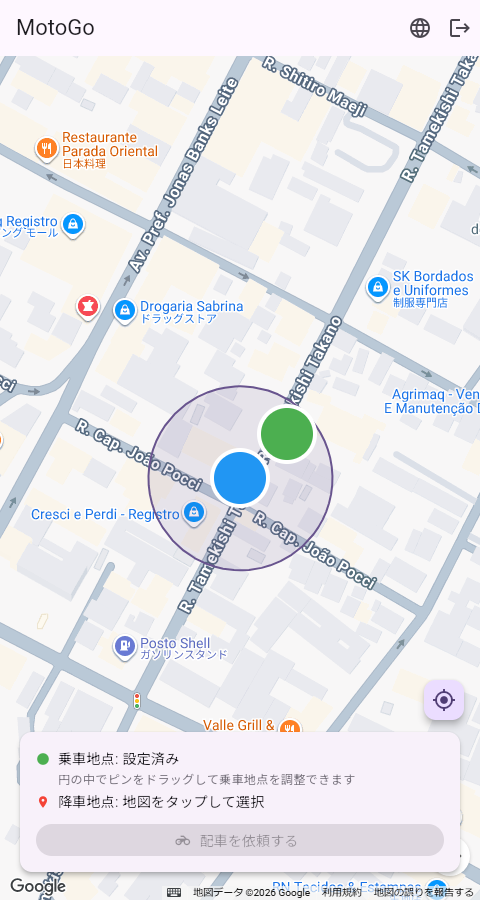
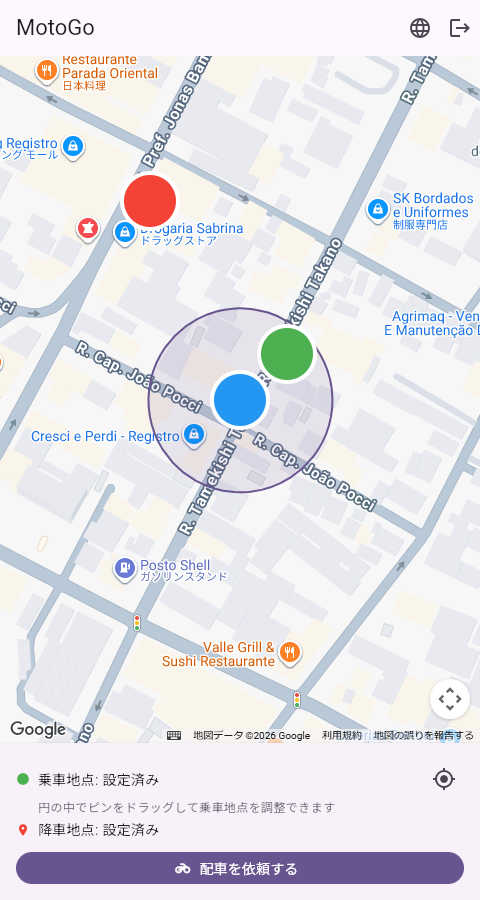
Move map overlay controls to a non-overlapping layout to stop tap-through
Tried pointer_interceptor (Google's documented fix for taps on a Flutter
widget over GoogleMap's web HtmlElementView also reaching the map
underneath) first, wrapping every overlay: AppBar actions, the "back to
pickup" FAB, the bottom status/action card, and the info banners.
Verified by direct testing that this did NOT reliably work — the FAB's
tap still registered as a dropoff-point tap on the map beneath it despite
the wrap. This matches a known Flutter-side instability specifically in
the GoogleMap + Stack + PointerInterceptor combination
(flutter/flutter#118159).

Reverted pointer_interceptor entirely (removed the dependency and all
usages) in favor of the approach actually confirmed to work: don't
overlap interactive controls with GoogleMap at all.

- body is now a Column: Expanded(Stack(GoogleMap + the two informational
  _InfoBanner overlays)) followed by a plain (non-Positioned) status/
  action card below it, sized on its own rather than floating over the
  map.
- The "back to pickup" FAB moved into that card (as an IconButton next to
  the pickup status line) instead of a Positioned FAB over the map.
- AppBar actions (language switcher, logout) were never actually
  overlapping the map (separate Scaffold slot) — confirmed clean by
  testing, left unwrapped.
- The location banners are the one remaining overlap, left as-is since
  they're read-only (a stray tap reaching the map while reading one is a
  minor side effect, not a broken control).
[…]

diff --git a/lib/features/passenger/home/passenger_home_screen.dart b/lib/features/passenger/home/passenger_home_screen.dart
@@ -406,146 +406,189 @@ class _PassengerHomeScreenState extends ConsumerState<PassengerHomeScreen> {
           ),
         ],
       ),
-      body: Stack(
+      // Interactive controls live in a separate, non-overlapping section
+      // below the map (see the Card at the bottom of this Column) rather
+      // than floating on top of it in a Stack. On web, GoogleMap renders as
+      // a real HTML element (HtmlElementView); a widget merely stacked
+      // visually on top of it can still leave taps reaching that element
+      // underneath at the same time (confirmed here: the old "back to
+      // pickup" FAB was also registering as a dropoff tap on the map below
+      // it). The documented fix for this (wrapping overlays in a
+      // PointerInterceptor) turned out to be unreliable in combination with
+      // GoogleMap specifically — flutter/flutter#118159 confirms known
+      // instability in exactly this combination (GoogleMap + Stack +
+      // PointerInterceptor) — so instead of fighting that, interactive
+      // controls simply don't overlap the map at all. The two _InfoBanner
+      // overlays are the one remaining exception (see their own note) since
+      // they aren't interactive.
+      // 操作系のコントロールは、地図の上にStackで重ねるのではなく、地図の下の
+      // 別セクション（このColumn末尾のCard）に分離して置く。Web版では
+      // GoogleMapは実際のHTML要素（HtmlElementView）として描画されるため、
+      // 視覚的に重ねるだけのウィジェットでは、タップが同時に下のHTML要素にも
+      // 届いてしまうことがある（この環境で確認済み: 旧「乗車地点に戻る」FABを
+      // タップすると、同時に地図側で降車地点タップとしても扱われていた）。
+      // これに対する公式な対処法（オーバーレイをPointerInterceptorでラップ
+      // する）は、GoogleMapとの組み合わせでは不安定であることが判明した —
+      // flutter/flutter#118159が、まさにこの組み合わせ（GoogleMap + Stack +
+      // PointerInterceptor）に既知の不安定さがあることを裏付けている —
+      // そのため、これと戦うのではなく、操作系のコントロールを地図と一切
+      // 重ねない設計にした。唯一の例外は2つの_InfoBannerオーバーレイ
+      // （操作対象ではないため — 詳細は個別の注記参照）。
+      body: Column(
         children: [
-          GoogleMap(
-            initialCameraPosition: const CameraPosition(
-              target: _registroCityCenter,
-              zoom: 14,
-            ),
-            onMapCreated: (controller) {
-              _mapController = controller;
-              // Covers the case where the device's GPS fix resolves before
-              // the map finishes initializing (observed in headless/mocked
-              // geolocation testing, but possible on a slow device too) —
-              // without this, _zoomToPickup's earlier call from
-              // _initPickupFromDeviceLocation silently no-ops on a
-              // still-null controller and the map is left at the initial
-              // city-wide view.
-              // GPS取得地点の解決が地図の初期化完了より先に終わるケースに
-              // 対応する（ヘッドレス/モック位置情報でのテストで確認済みだが、
-              // 低速な端末でも起こりうる）— これが無いと、
-              // _initPickupFromDeviceLocationからの_zoomToPickup呼び出しが
-              // まだnullなコントローラに対して無言でno-opになり、地図が
-              // 初期の街全体ビューのまま残ってしまう。
-              _zoomToPickup();
-            },
-            onTap: _onMapTap,
-            markers: markers,
-            // Visualizes _pickupRadiusMeters around the device's actual GPS
-            // fix, so the drag constraint in _clampToPickupRadius is
-            // something the user can see, not just silently enforced.
-            // _pickupRadiusMetersを端末の実際のGPS取得地点の周りに可視化する。
-            // _clampToPickupRadiusでのドラッグ制約を、暗黙に強制するのではなく
-            // ユーザーが目で見て分かるようにする。
-            circles: _deviceLocation == null
-                ? const {}
-                : {
-                    Circle(
-                      circleId: const CircleId('pickup_radius'),
-                      center: _deviceLocation!,
-                      radius: _pickupRadiusMeters,
-                      strokeWidth: 2,
-                      strokeColor: Theme.of(context).colorScheme.primary,
-                      fillColor: Theme.of(
-                        context,
-                      ).colorScheme.primary.withValues(alpha: 0.12),
-                    ),
+          Expanded(
+            child: Stack(
+              children: [
+                GoogleMap(
+                  initialCameraPosition: const CameraPosition(
+                    target: _registroCityCenter,
+                    zoom: 14,
+                  ),
+                  onMapCreated: (controller) {
+                    _mapController = controller;
+                    // Covers the case where the device's GPS fix resolves
+                    // before the map finishes initializing (observed in
+                    // headless/mocked geolocation testing, but possible on
+                    // a slow device too) — without this, _zoomToPickup's
+                    // earlier call from _initPickupFromDeviceLocation
+                    // silently no-ops on a still-null controller and the
+                    // map is left at the initial city-wide view.
+                    // GPS取得地点の解決が地図の初期化完了より先に終わる
+                    // ケースに対応する（ヘッドレス/モック位置情報での
+                    // テストで確認済みだが、低速な端末でも起こりうる）—
+                    // これが無いと、_initPickupFromDeviceLocationからの
+                    // _zoomToPickup呼び出しがまだnullなコントローラに対して
+                    // 無言でno-opになり、地図が初期の街全体ビューのまま
+                    // 残ってしまう。
+                    _zoomToPickup();
                   },
-            // Note: intentionally NOT using GoogleMap's built-in
-            // myLocationEnabled ("blue dot") flag — verified in this
-            // environment that google_maps_flutter_web doesn't actually
-            // render it (the underlying Google Maps JavaScript API has no
-            // native "my location" primitive; that's an app-level feature
-            // on Android/iOS/Google's own web maps, not something the
-            // embeddable JS API provides). The device_location marker
-            // below (in `markers`) is our own reliable, cross-platform
-            // equivalent.
-            // 注: あえてGoogleMap組み込みのmyLocationEnabled（「青い点」）
-            // フラグは使っていない — この環境で検証した結果、
-            // google_maps_flutter_webでは実際には描画されないことを確認
-            // 済み（Google Maps JavaScript API自体に「現在地」を示す
-            // ネイティブの仕組みが無いため。それはAndroid/iOS/Google自身の
-            // Web地図が持つアプリレベルの機能であり、組み込み用JS APIが
-            // 提供するものではない）。下の`markers`にある
-            // device_locationマーカーが、これに代わる自前実装の
-            // クロスプラットフォームで確実に動く同等機能。
-            myLocationButtonEnabled: false,
-            zoomControlsEnabled: false,
-          ),
-          if (_isLocatingDevice)
-            _InfoBanner(message: l10n.passengerGettingCurrentLocation),
-          if (_locationError != null)
-            _InfoBanner(
-              message:
-                  '${_locationError!.localizedMessage(l10n)}\n'
-                  '${l10n.passengerTapMapToPickPickupHint}',
-              isError: true,
+                  onTap: _onMapTap,
+                  markers: markers,
+                  // Visualizes _pickupRadiusMeters around the device's
+                  // actual GPS fix, so the drag constraint in
+                  // _clampToPickupRadius is something the user can see, not
+                  // just silently enforced.
+                  // _pickupRadiusMetersを端末の実際のGPS取得地点の周りに
+                  // 可視化する。_clampToPickupRadiusでのドラッグ制約を、
+                  // 暗黙に強制するのではなくユーザーが目で見て分かるように
+                  // する。
+                  circles: _deviceLocation == null
+                      ? const {}
+                      : {
+                          Circle(
+                            circleId: const CircleId('pickup_radius'),
+                            center: _deviceLocation!,
+                            radius: _pickupRadiusMeters,
+                            strokeWidth: 2,
+                            strokeColor: Theme.of(context).colorScheme.primary,
+                            fillColor: Theme.of(
+                              context,
+                            ).colorScheme.primary.withValues(alpha: 0.12),
+                          ),
+                        },
+                  // Note: intentionally NOT using GoogleMap's built-in
+                  // myLocationEnabled ("blue dot") flag — verified in this
+                  // environment that google_maps_flutter_web doesn't
+                  // actually render it (the underlying Google Maps
+                  // JavaScript API has no native "my location" primitive;
+                  // that's an app-level feature on Android/iOS/Google's own
+                  // web maps, not something the embeddable JS API
+                  // provides). The device_location marker below (in
+                  // `markers`) is our own reliable, cross-platform
+                  // equivalent.
+                  // 注: あえてGoogleMap組み込みのmyLocationEnabled
+                  // （「青い点」）フラグは使っていない — この環境で検証した
+                  // 結果、google_maps_flutter_webでは実際には描画されない
+                  // ことを確認済み（Google Maps JavaScript API自体に
+                  // 「現在地」を示すネイティブの仕組みが無いため。それは
+                  // Android/iOS/Google自身のWeb地図が持つアプリレベルの
+                  // 機能であり、組み込み用JS APIが提供するものではない）。
+                  // 下の`markers`にあるdevice_locationマーカーが、これに
+                  // 代わる自前実装のクロスプラットフォームで確実に動く
+                  // 同等機能。
+                  myLocationButtonEnabled: false,
+                  zoomControlsEnabled: false,
+                ),
+                if (_isLocatingDevice)
+                  _InfoBanner(message: l10n.passengerGettingCurrentLocation),
+                if (_locationError != null)
+                  _InfoBanner(
+                    message:
+                        '${_locationError!.localizedMessage(l10n)}\n'
+                        '${l10n.passengerTapMapToPickPickupHint}',
+                    isError: true,
+                  ),
+              ],
             ),
-          Positioned(
-            right: 16,
-            bottom: 180,
-            child: FloatingActionButton.small(
-              onPressed: _pickupLocation == null
-                  ? null
-                  : () => _mapController?.animateCamera(
-                      CameraUpdate.newLatLng(_pickupLocation!),
-                    ),
-              tooltip: l10n.passengerBackToPickupTooltip,
-              child: const Icon(Icons.my_location),
-            ),
           ),
-          Positioned(
-            left: 16,
-            right: 16,
-            bottom: 24,
-            child: Card(
-              elevation: 4,
-              child: Padding(
-                padding: const EdgeInsets.all(16),
-                child: Column(
-                  mainAxisSize: MainAxisSize.min,
-                  crossAxisAlignment: CrossAxisAlignment.stretch,
-                  children: [
-                    _RideStatusLine(
-                      icon: Icons.circle,
-                      color: Colors.green,
-                      label: _pickupLocation == null
-                          ? l10n.passengerPickupNotSet
-                          : l10n.passengerPickupSet,
-                    ),
-                    if (_deviceLocation != null) ...[
-                      const SizedBox(height: 2),
-                      Padding(
-                        padding: const EdgeInsets.only(left: 22),
-                        child: Text(
-                          l10n.passengerPickupRadiusHint,
-                          style: Theme.of(context).textTheme.bodySmall
-                              ?.copyWith(
-                                color: Theme.of(context).colorScheme.outline,
-                              ),
+          Card(
+            margin: EdgeInsets.zero,
+            shape: const RoundedRectangleBorder(),
+            elevation: 4,
+            child: Padding(
+              padding: const EdgeInsets.all(16),
+              child: Column(
+                mainAxisSize: MainAxisSize.min,
+                crossAxisAlignment: CrossAxisAlignment.stretch,
+                children: [
+                  Row(
+                    children: [
+                      Expanded(
+                        child: _RideStatusLine(
+                          icon: Icons.circle,
+                          color: Colors.green,
+                          label: _pickupLocation == null
+                              ? l10n.passengerPickupNotSet
+                              : l10n.passengerPickupSet,
                         ),
                       ),
+                      // Re-centers the map on the pickup point. Lives here,
+                      // next to the pickup status line, rather than as a
+                      // FAB floating over the map — see the class-level
+                      // note above `body: Column(`.
+                      // 乗車地点に地図を戻す。地図に重ねるFABとしてではなく
+                      // 乗車地点ステータス行の隣にある — 理由は
+                      // `body: Column(`直前のクラスレベルの注記参照。
+                      IconButton(
+                        onPressed: _pickupLocation == null
+                            ? null
+                            : () => _mapController?.animateCamera(
+                                CameraUpdate.newLatLng(_pickupLocation!),
+                              ),
+                        tooltip: l10n.passengerBackToPickupTooltip,
+                        icon: const Icon(Icons.my_location),
+                      ),
                     ],
-                    const SizedBox(height: 4),
-                    _RideStatusLine(
-                      icon: Icons.location_on,
-                      color: Colors.red,
-                      label: _dropoffLocation == null
-                          ? l10n.passengerDropoffNotSet
-                          : l10n.passengerDropoffSet,
+                  ),
+                  if (_deviceLocation != null)
+                    Padding(
+                      padding: const EdgeInsets.only(left: 22),
+                      child: Text(
+                        l10n.passengerPickupRadiusHint,
+                        style: Theme.of(context).textTheme.bodySmall
+                            ?.copyWith(
+                              color: Theme.of(context).colorScheme.outline,
+                            ),
+                      ),
                     ),
-                    const SizedBox(height: 12),
-                    FilledButton.icon(
-                      onPressed:
-                          (_pickupLocation != null && _dropoffLocation != null)
-                          ? _requestRide
-                          : null,
-                      icon: const Icon(Icons.motorcycle),
-                      label: Text(l10n.passengerRequestRideButton),
-                    ),
-                  ],
-                ),
+                  const SizedBox(height: 4),
+                  _RideStatusLine(
+                    icon: Icons.location_on,
+                    color: Colors.red,
+                    label: _dropoffLocation == null
+                        ? l10n.passengerDropoffNotSet
+                        : l10n.passengerDropoffSet,
+                  ),
+                  const SizedBox(height: 12),
+                  FilledButton.icon(
+                    onPressed:
+                        (_pickupLocation != null && _dropoffLocation != null)
+                        ? _requestRide
+                        : null,
+                    icon: const Icon(Icons.motorcycle),
+                    label: Text(l10n.passengerRequestRideButton),
+                  ),
+                ],
               ),
             ),
           ),
@@ -587,6 +630,15 @@ class _InfoBanner extends StatelessWidget {
   @override
   Widget build(BuildContext context) {
     final colorScheme = Theme.of(context).colorScheme;
+    // Still overlaps the map (unlike the other controls — see the
+    // class-level note in PassengerHomeScreen) since it's read-only, not
+    // interactive: a stray tap landing on the map underneath while the user
+    // is just reading it is a minor, acceptable side effect, not a broken
+    // control.
+    // 他のコントロールとは違い（理由はPassengerHomeScreenのクラスレベルの
+    // 注記参照）、これは操作対象ではなく読み取り専用のため、依然として
+    // 地図に重ねている — 読んでいるだけの間に下の地図へタップが漏れても、
+    // 軽微で許容できる副作用であり、操作不能になるわけではない。
     return Positioned(
       top: 16,
       left: 16,
